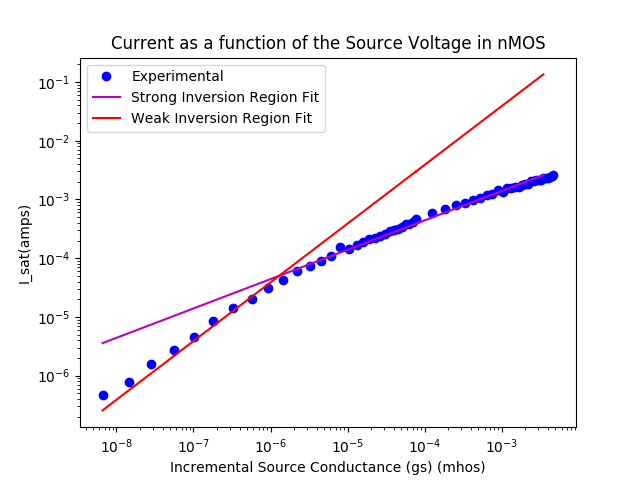
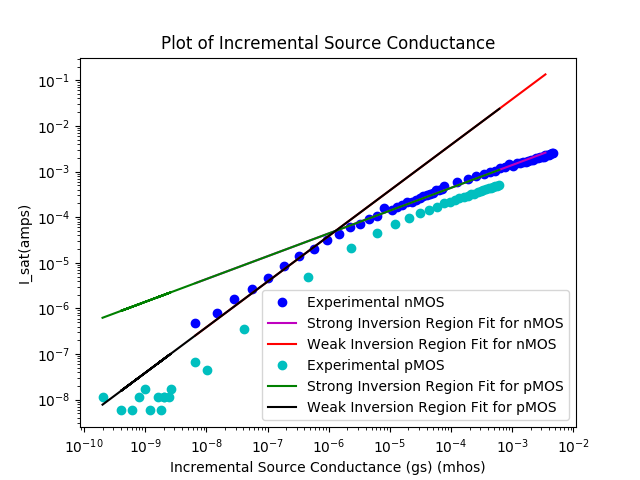
making lab 5 corrections

diff --git a/lab 5/exp2/pmosloglog.py b/lab 5/exp2/pmosloglog.py
@@ -50,22 +50,30 @@ for i in pI[6:]:
     gsw.append(i/.0258)
     gwp.append(va/(.0258*ro))
 
-title = "Current as a function of the Source Voltage in pMOS"
-yLabel = "I_sat(amps)"
-xLabel = "Incremental Source Conductance (gs) (mhos)"
-
 [first, last, mmax, bmax, Nmax]=linefit(np.array(pV[6:]),np.array(pI[6:]))
 x = np.logspace(.25,.55,2)
 y = mmax*x+bmax
-Data2=plt.loglog( pI[1:],ge, 'bo',label='Experimental')
-Data2=plt.loglog( pI[6:],gss, '-m',label='Strong Inversion Region Fit')
-Data2=plt.loglog( pI[6:],gsw, '-r',label='Weak Inversion Region Fit')
-#Data2=plt.loglog(gsp, pI[6:], 'go')
-#Data2=plt.loglog(gwp, pI[6:], 'mo')
-plt.xlabel(xLabel)
-plt.ylabel(yLabel)
-plt.title(title)
-plt.legend()
-plt.savefig('Exp2nMOSlog.png', format='png')
-plt.show()
-labely = "y="+str(round(mmax,5))+"x+ "+str(round(bmax,5))
+
+pI2 = pI
+ge2 = ge
+gss2 = gss
+gsw2 = gsw
+
+if __name__ == '__main__':
+    title = "Current as a function of the Source Voltage in pMOS"
+    yLabel = "I_sat(amps)"
+    xLabel = "Incremental Source Conductance (gs) (mhos)"
+
+
+    Data2=plt.loglog( pI[1:],ge, 'bo',label='Experimental')
+    Data2=plt.loglog( pI[6:],gss, '-m',label='Strong Inversion Region Fit')
+    Data2=plt.loglog( pI[6:],gsw, '-r',label='Weak Inversion Region Fit')
+    #Data2=plt.loglog(gsp, pI[6:], 'go')
+    #Data2=plt.loglog(gwp, pI[6:], 'mo')
+    plt.xlabel(xLabel)
+    plt.ylabel(yLabel)
+    plt.title(title)
+    plt.legend()
+    plt.savefig('Exp2nMOSlog.png', format='png')
+    plt.show()
+    labely = "y="+str(round(mmax,5))+"x+ "+str(round(bmax,5))

diff --git a/lab 5/exp2/nmosloglog.py b/lab 5/exp2/nmosloglog.py
@@ -7,7 +7,7 @@ import math
 import matplotlib.pyplot as plt
 from scipy.optimize import curve_fit
 from scipy import stats
-from pmosloglog import pI,ge,gss,gsw as ppI,pge,pgss,pgsw
+from pmosloglog import pI2,ge2,gss2,gsw2
 pIout = open('nmosexp2/Iout.txt', 'r').read().split()
 pVin = open('nmosexp2/Vin.txt', 'r').read().split()
 pI=[]
@@ -51,16 +51,20 @@ for i in pI[6:]:
     gsw.append(i/.0258)
     gwp.append(va/(.0258*ro))
 
-title = "Current as a function of the Source Voltage in nMOS"
+title = "Plot of Incremental Source Conductance"
 yLabel = "I_sat(amps)"
 xLabel = "Incremental Source Conductance (gs) (mhos)"
 
 [first, last, mmax, bmax, Nmax]=linefit(np.array(pV[6:]),np.array(pI[6:]))
 x = np.logspace(.25,.55,2)
 y = mmax*x+bmax
-Data2=plt.loglog( pI[1:],ge, 'bo',label='Experimental')
-Data2=plt.loglog( pI[6:],gss, '-m',label='Strong Inversion Region Fit')
-Data2=plt.loglog( pI[6:],gsw, '-r',label='Weak Inversion Region Fit')
+Data2=plt.loglog( pI[1:],ge, 'bo',label='Experimental nMOS')
+Data2=plt.loglog( pI[6:],gss, '-m',label='Strong Inversion Region Fit for nMOS')
+Data2=plt.loglog( pI[6:],gsw, '-r',label='Weak Inversion Region Fit for nMOS')
+
+Data2=plt.loglog( pI2[1:],ge2, 'co',label='Experimental pMOS')
+Data2=plt.loglog( pI2[6:],gss2, '-g',label='Strong Inversion Region Fit for pMOS')
+Data2=plt.loglog( pI2[6:],gsw2, '-k',label='Weak Inversion Region Fit for pMOS')
 
 #Data2=plt.loglog(gsp, pI[6:], 'go')
 #Data2=plt.loglog(gwp, pI[6:], 'mo')

diff --git a/lab 5/exp1/nMOS_CCofVG.py b/lab 5/exp1/nMOS_CCofVG.py
@@ -8,12 +8,13 @@ import matplotlib.pyplot as plt
 from scipy.optimize import curve_fit
 from scipy import stats
 from numpy import *
+from pMOS_CCofVG import Vg2, Cc2, TheoCC2
 
 # Importing Data-
 CcRaw = open('../nmos exp1/Id.txt', 'r').read().split() #Collector Current
 VgRaw = open('../nmos exp1/Vg.txt', 'r').read().split() #Gate Voltage
 
-[Is, Vt, Kappa] = ekvfit(Vg, Isat, 5e-4)
+#[Is, Vt, Kappa] = ekvfit(Vg, Isat, 5e-4)
 
 Cc = []
 Vg = []
@@ -61,16 +62,20 @@ for x in Cc:
     TheoCC.append(Is * (math.log(1 + math.exp(Kappa*(vVal-float(Vt))/(2*0.0258))))**2)
     i+=1
 
+for i, v in enumerate(Vg2):
+    Vg2[i] = v*-1
+
 # Setting up plot
-title = "Collector Current as a function of gate voltage for an nMOS transistor"
+title = "Collector Current as a function of gate voltage"
 yLabel = "Collector Current (A)"
 xLabel = "Gate Voltage (V)"
 
 # Plotting Data
 
-Data1 = plt.semilogy(Vg, Cc, 'ro', markersize=3, label="experimental")
-Data2 = plt.semilogy(Vg[10:], TheoCC[10:], 'b--', markersize=3, label="EKV Model")
-
+Data1 = plt.semilogy(Vg, Cc, 'ro', markersize=3, label="experimental nMOS data")
+Data2 = plt.semilogy(Vg[10:], TheoCC[10:], 'b--', markersize=3, label="EKV Model for nMOS")
+Data1 = plt.semilogy(Vg2, Cc2, 'go', markersize=3, label="experimental pMOS data")
+Data2 = plt.semilogy(Vg2[5:50], TheoCC2[5:50], 'k--', markersize=3, label="EKV Model for pMOS")
 
 
 

diff --git a/lab 5/linefit.py b/lab 5/linefit.py
@@ -2,7 +2,6 @@
 from numpy import *
 
 def linefit(x, y, epsilon = 0.001):
-
     '''
     Attempts to fit a straight line to an appropriate part of the curve
     specified by x and y.  It steps through the curve specified by
@@ -27,7 +26,6 @@ def linefit(x, y, epsilon = 0.001):
             mmax = 0
             bmax = 0
             Nmax = 0
-            N = 0
             i = 0
             while i < len(x) - 1:
                 R2 = 1
@@ -49,18 +47,10 @@ def linefit(x, y, epsilon = 0.001):
                     SXX = sumX2 - sumX * sumX / N
                     SYY = sumY2 - sumY * sumY / N
                     SXY = sumXY - sumX * sumY / N
-<<<<<<< HEAD
                     m = SXY / SXX
                     b = (sumY - m * sumX) / N
                     R2 = SXY * SXY / (SXX * SYY)
-                if (N >4) and (abs(m) > abs(mmax)):
-=======
-                    if (SXX != 0 and SYY != 0):
-                        m = SXY / SXX
-                        b = (sumY - m * sumX) / N
-                        R2 = SXY * SXY / (SXX * SYY)
-                if (N >= 4) and (abs(m) > abs(mmax)):
->>>>>>> 84576ced818c17f5de7b034f9600688229159bed
+                if (N > 10) and (abs(m) > abs(mmax)):
                     first = i
                     last = j
                     mmax = m

diff --git a/lab 5/exp1/pMOS_CCofVG.py b/lab 5/exp1/pMOS_CCofVG.py
@@ -102,23 +102,28 @@ for x in Cc:
     TheoCC.append(val/1e5)
     i+=1
 
+Vg2 = Vg
+Cc2 = Cc
+TheoCC2 = TheoCC
 
-# Setting up plot
-title = "Collector Current as a function of gate voltage for an pMOS transistor"
-yLabel = "Collector Current (A)"
-xLabel = "Gate Voltage (V)"
+if __name__ == '__main__':
 
-# Plotting Data
+    # Setting up plot
+    title = "Collector Current as a function of gate voltage for an pMOS transistor"
+    yLabel = "Collector Current (A)"
+    xLabel = "Gate Voltage (V)"
 
-Data1 = plt.semilogy(Vg, Cc, 'ro', markersize=3, label="experimental")
-Data2 = plt.semilogy(Vg[5:50], TheoCC[5:50], 'b--', markersize=3, label="EKV Model")
+    # Plotting Data
 
-plt.xlabel(xLabel)
-plt.ylabel(yLabel)
-plt.title(title)
-plt.legend()
-plt.savefig('Exp1pMOS.png', format='png')
-plt.show()
+    Data1 = plt.semilogy(Vg, Cc, 'ro', markersize=3, label="experimental")
+    Data2 = plt.semilogy(Vg[5:50], TheoCC[5:50], 'b--', markersize=3, label="EKV Model")
+
+    plt.xlabel(xLabel)
+    plt.ylabel(yLabel)
+    plt.title(title)
+    plt.legend()
+    plt.savefig('Exp1pMOS.png', format='png')
+    plt.show()
 
 
 
